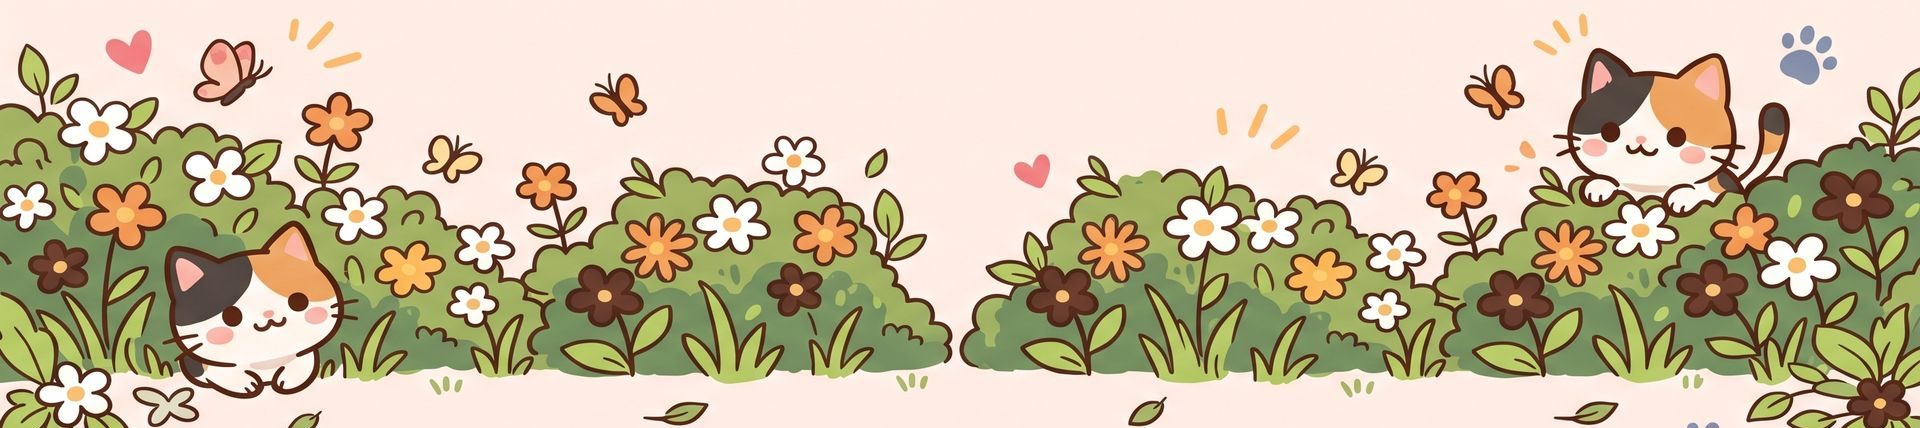
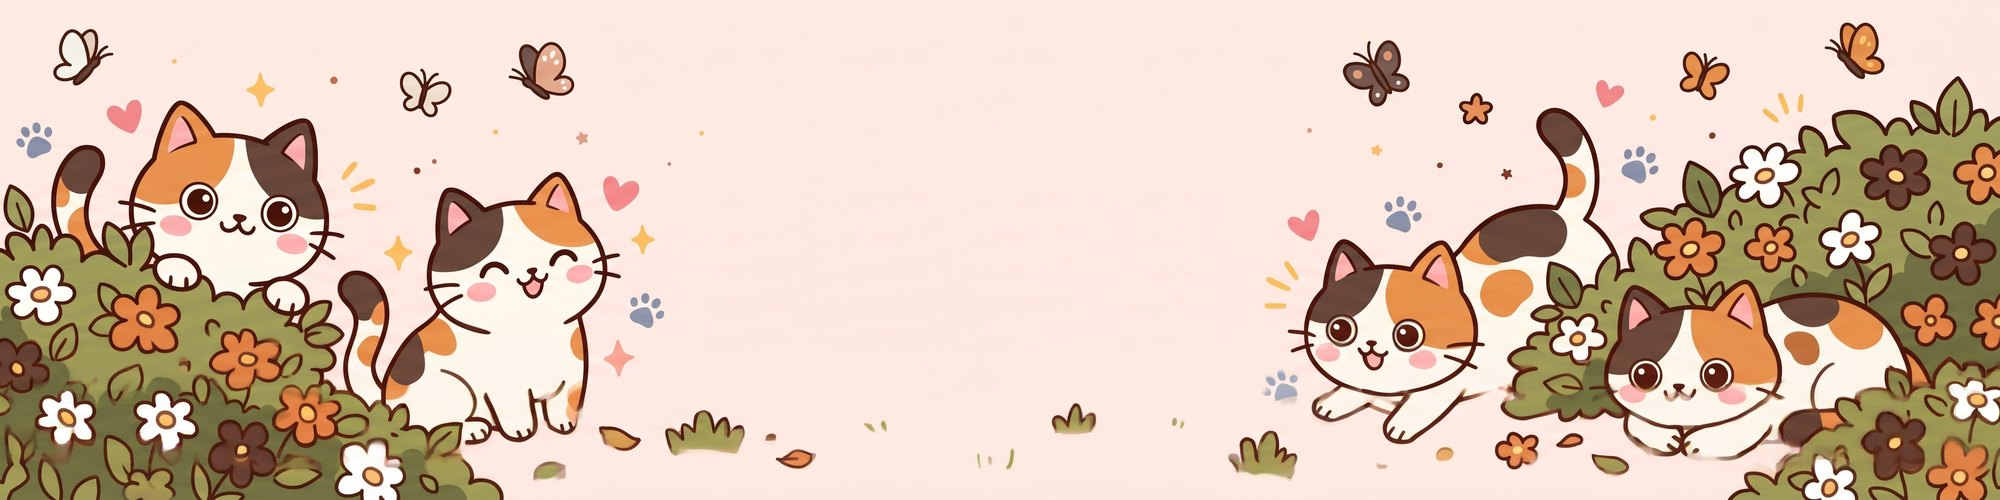
換上 14 張重畫的頁首橫幅，標題改放白卡片
橫幅：七個毛色各一張手機版（5:2）與電腦版（4:1），置中裁切不拉伸，
每張都有 2～4 隻該毛色的貓。原圖備份在 設計稿/橫幅/，已去 EXIF。

標題：原本靠文字外圍打白光，插畫夠淡才讀得清楚，夜晚主題是深藍底，
深色的字配白光反而糊成一團。改成半透明白卡片（backdrop-filter 模糊），
不管底下的插畫是亮是暗都一樣清楚。

快取：橫幅網址是 site.js 組出來的，HTML 加不了版本號，
而換圖時檔名不變，所以版本號工具新增 stamp_hero()，
把 images/hero/ 整個資料夾算成一個 hash 寫進 site.js。

diff --git a/assets/style.css b/assets/style.css
@@ -890,9 +890,27 @@ body[class*="theme-"] .cat-sheet {
   .cats-hero::before { content: none; }
   .cats-hero-text { text-align: center; padding: 24px 0; }
   .cats-hero .lead { margin-left: auto; margin-right: auto; }
-  /* 字下墊一層很淡的白，插畫再花都讀得清楚 */
-  .cats-hero-text > * {
-    text-shadow: 0 1px 0 rgba(255, 255, 255, .9), 0 0 12px rgba(255, 255, 255, .95);
+
+  /* 標題放在一張白色小卡片上。
+     原本是靠文字外圍打白光，但那要插畫夠淡才讀得清楚——
+     夜晚主題是深藍底，深色的字配白光反而糊成一團。
+     改成實體卡片，不管底下的插畫是亮是暗、是花是素，對比都一樣穩。
+     卡片只包住文字本身（寬度隨內容），兩側的貓咪照樣看得見。 */
+  .cats-hero-text {
+    display: flex;
+    flex-direction: column;
+    align-items: center;
+  }
+  .cats-hero-card {
+    display: inline-block;
+    max-width: 34em;
+    padding: 18px 34px 20px;
+    border-radius: 20px;
+    background: rgba(255, 255, 255, .9);
+    border: 1px solid rgba(255, 255, 255, .85);
+    box-shadow: 0 6px 22px rgba(31, 43, 77, .14);
+    -webkit-backdrop-filter: blur(3px);
+    backdrop-filter: blur(3px);
   }
 }
 

diff --git a/cats.html b/cats.html
@@ -15,7 +15,7 @@
 <!-- 製作中，先不讓搜尋引擎收錄。正式上線時刪掉下面這一行。 -->
 <meta name="robots" content="noindex, nofollow">
 <link rel="icon" href="images/favicon.png?v=e05dc69b" type="image/png">
-<link rel="stylesheet" href="assets/style.css?v=7f279561">
+<link rel="stylesheet" href="assets/style.css?v=04ffa6ed">
 </head>
 <body>
 
@@ -56,9 +56,11 @@
   <!-- 頁首橫幅：插畫會跟著下面選的毛色換（換圖的程式在 assets/site.js） -->
   <div class="cats-hero" id="cats-hero">
     <div class="wrap cats-hero-text">
-      <h1>等家的貓咪</h1>
-      <p class="lead">牠們都在高雄的貓窩裡，等一個願意陪牠一輩子的人。<br>
-         點進去看每隻貓的個性和適合的家庭。</p>
+      <div class="cats-hero-card">
+        <h1>等家的貓咪</h1>
+        <p class="lead">牠們都在高雄的貓窩裡，等一個願意陪牠一輩子的人。<br>
+           點進去看每隻貓的個性和適合的家庭。</p>
+      </div>
     </div>
   </div>
 
@@ -124,6 +126,6 @@
 </footer>
 
 <script src="data/cats.js?v=e34749f1"></script>
-<script src="assets/site.js?v=f9f3773d"></script>
+<script src="assets/site.js?v=2479cd29"></script>
 </body>
 </html>

diff --git a/assets/site.js b/assets/site.js
@@ -44,8 +44,11 @@ function setHero(filter) {
   // 直接寫 "images/hero/..." 的話，瀏覽器會當成相對於 style.css 的位置
   // （變成 assets/images/hero/...），圖就找不到了。
   var base = new URL('images/hero/', location.href).href;
-  hero.style.setProperty('--hero-m', 'url("' + base + name + '-m.jpg")');
-  hero.style.setProperty('--hero-d', 'url("' + base + name + '-d.jpg")');
+  // ?v= 的數字由 tools/更新版本號.py 自動換掉。
+  // 橫幅換新圖時檔名不變，沒有這一段的話使用者會繼續看到快取裡的舊圖。
+  var v = '?v=d9515c48';
+  hero.style.setProperty('--hero-m', 'url("' + base + name + '-m.jpg' + v + '")');
+  hero.style.setProperty('--hero-d', 'url("' + base + name + '-d.jpg' + v + '")');
   // 底紋的顏色也跟著換，呼應該主題的場景
   var TONE = {
     all:    '#8FA6C8',   // 預設的藍灰

diff --git a/games.html b/games.html
@@ -15,7 +15,7 @@
 <!-- 製作中，先不讓搜尋引擎收錄。正式上線時刪掉下面這一行。 -->
 <meta name="robots" content="noindex, nofollow">
 <link rel="icon" href="images/favicon.png?v=e05dc69b" type="image/png">
-<link rel="stylesheet" href="assets/style.css?v=7f279561">
+<link rel="stylesheet" href="assets/style.css?v=04ffa6ed">
 </head>
 <body>
 
@@ -120,6 +120,6 @@
 <script src="data/games.js?v=b3bd0108"></script>
 <script src="data/news.js?v=3a98b0ab"></script>
 <script src="data/tips.js?v=6115ada7"></script>
-<script src="assets/site.js?v=f9f3773d"></script>
+<script src="assets/site.js?v=2479cd29"></script>
 </body>
 </html>

diff --git a/index.html b/index.html
@@ -15,7 +15,7 @@
 <!-- 製作中，先不讓搜尋引擎收錄。正式上線時刪掉下面這一行。 -->
 <meta name="robots" content="noindex, nofollow">
 <link rel="icon" href="images/favicon.png?v=e05dc69b" type="image/png">
-<link rel="stylesheet" href="assets/style.css?v=7f279561">
+<link rel="stylesheet" href="assets/style.css?v=04ffa6ed">
 </head>
 <body>
 
@@ -203,6 +203,6 @@
 <script src="data/news.js?v=3a98b0ab"></script>
 <script src="data/tips.js?v=6115ada7"></script>
 <script src="data/games.js?v=b3bd0108"></script>
-<script src="assets/site.js?v=f9f3773d"></script>
+<script src="assets/site.js?v=2479cd29"></script>
 </body>
 </html>

diff --git a/tips.html b/tips.html
@@ -15,7 +15,7 @@
 <!-- 製作中，先不讓搜尋引擎收錄。正式上線時刪掉下面這一行。 -->
 <meta name="robots" content="noindex, nofollow">
 <link rel="icon" href="images/favicon.png?v=e05dc69b" type="image/png">
-<link rel="stylesheet" href="assets/style.css?v=7f279561">
+<link rel="stylesheet" href="assets/style.css?v=04ffa6ed">
 </head>
 <body>
 
@@ -114,6 +114,6 @@
 <script src="data/cats.js?v=e34749f1"></script>
 <script src="data/tips.js?v=6115ada7"></script>
 <script src="data/games.js?v=b3bd0108"></script>
-<script src="assets/site.js?v=f9f3773d"></script>
+<script src="assets/site.js?v=2479cd29"></script>
 </body>
 </html>

diff --git a/news.html b/news.html
@@ -15,7 +15,7 @@
 <!-- 製作中，先不讓搜尋引擎收錄。正式上線時刪掉下面這一行。 -->
 <meta name="robots" content="noindex, nofollow">
 <link rel="icon" href="images/favicon.png?v=e05dc69b" type="image/png">
-<link rel="stylesheet" href="assets/style.css?v=7f279561">
+<link rel="stylesheet" href="assets/style.css?v=04ffa6ed">
 </head>
 <body>
 
@@ -108,6 +108,6 @@
 
 <script src="data/cats.js?v=e34749f1"></script>
 <script src="data/news.js?v=3a98b0ab"></script>
-<script src="assets/site.js?v=f9f3773d"></script>
+<script src="assets/site.js?v=2479cd29"></script>
 </body>
 </html>

diff --git a/shop.html b/shop.html
@@ -15,7 +15,7 @@
 <!-- 製作中，先不讓搜尋引擎收錄。正式上線時刪掉下面這一行。 -->
 <meta name="robots" content="noindex, nofollow">
 <link rel="icon" href="images/favicon.png?v=e05dc69b" type="image/png">
-<link rel="stylesheet" href="assets/style.css?v=7f279561">
+<link rel="stylesheet" href="assets/style.css?v=04ffa6ed">
 </head>
 <body>
 
@@ -112,6 +112,6 @@
 
 <script src="data/cats.js?v=e34749f1"></script>
 <script src="data/shop.js?v=f6c32ecd"></script>
-<script src="assets/site.js?v=f9f3773d"></script>
+<script src="assets/site.js?v=2479cd29"></script>
 </body>
 </html>

diff --git a/tip.html b/tip.html
@@ -15,7 +15,7 @@
 <!-- 製作中，先不讓搜尋引擎收錄。正式上線時刪掉下面這一行。 -->
 <meta name="robots" content="noindex, nofollow">
 <link rel="icon" href="images/favicon.png?v=e05dc69b" type="image/png">
-<link rel="stylesheet" href="assets/style.css?v=7f279561">
+<link rel="stylesheet" href="assets/style.css?v=04ffa6ed">
 </head>
 <body>
 
@@ -98,6 +98,6 @@
 
 <script src="data/cats.js?v=e34749f1"></script>
 <script src="data/tips.js?v=6115ada7"></script>
-<script src="assets/site.js?v=f9f3773d"></script>
+<script src="assets/site.js?v=2479cd29"></script>
 </body>
 </html>

diff --git a/about.html b/about.html
@@ -15,7 +15,7 @@
 <!-- 製作中，先不讓搜尋引擎收錄。正式上線時刪掉下面這一行。 -->
 <meta name="robots" content="noindex, nofollow">
 <link rel="icon" href="images/favicon.png?v=e05dc69b" type="image/png">
-<link rel="stylesheet" href="assets/style.css?v=7f279561">
+<link rel="stylesheet" href="assets/style.css?v=04ffa6ed">
 </head>
 <body>
 
@@ -136,6 +136,6 @@
 </footer>
 
 <script src="data/cats.js?v=e34749f1"></script>
-<script src="assets/site.js?v=f9f3773d"></script>
+<script src="assets/site.js?v=2479cd29"></script>
 </body>
 </html>

diff --git a/adopt.html b/adopt.html
@@ -15,7 +15,7 @@
 <!-- 製作中，先不讓搜尋引擎收錄。正式上線時刪掉下面這一行。 -->
 <meta name="robots" content="noindex, nofollow">
 <link rel="icon" href="images/favicon.png?v=e05dc69b" type="image/png">
-<link rel="stylesheet" href="assets/style.css?v=7f279561">
+<link rel="stylesheet" href="assets/style.css?v=04ffa6ed">
 </head>
 <body>
 
@@ -119,6 +119,6 @@
 </footer>
 
 <script src="data/cats.js?v=e34749f1"></script>
-<script src="assets/site.js?v=f9f3773d"></script>
+<script src="assets/site.js?v=2479cd29"></script>
 </body>
 </html>

diff --git a/adopted.html b/adopted.html
@@ -15,7 +15,7 @@
 <!-- 製作中，先不讓搜尋引擎收錄。正式上線時刪掉下面這一行。 -->
 <meta name="robots" content="noindex, nofollow">
 <link rel="icon" href="images/favicon.png?v=e05dc69b" type="image/png">
-<link rel="stylesheet" href="assets/style.css?v=7f279561">
+<link rel="stylesheet" href="assets/style.css?v=04ffa6ed">
 </head>
 <body>
 
@@ -110,6 +110,6 @@
 </footer>
 
 <script src="data/cats.js?v=e34749f1"></script>
-<script src="assets/site.js?v=f9f3773d"></script>
+<script src="assets/site.js?v=2479cd29"></script>
 </body>
 </html>
